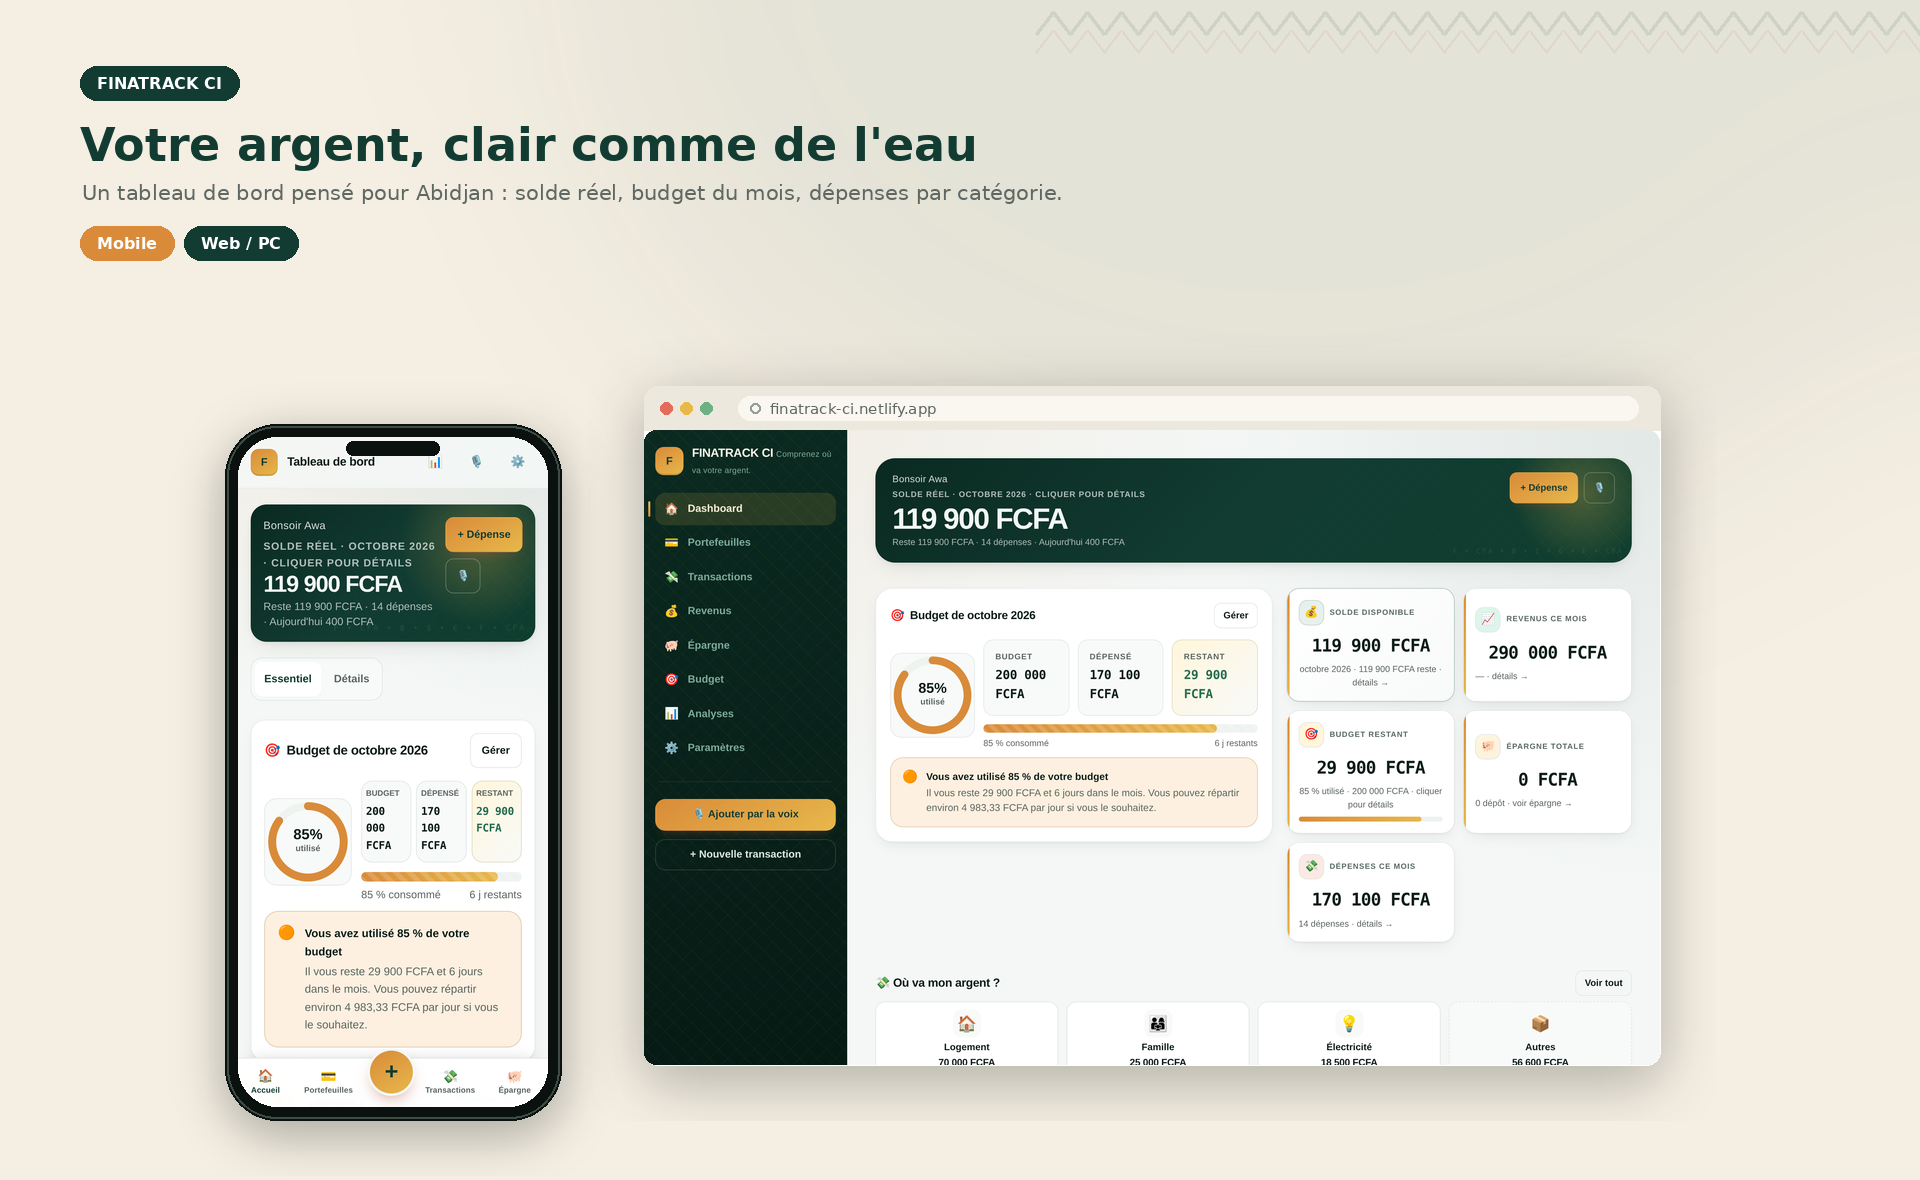
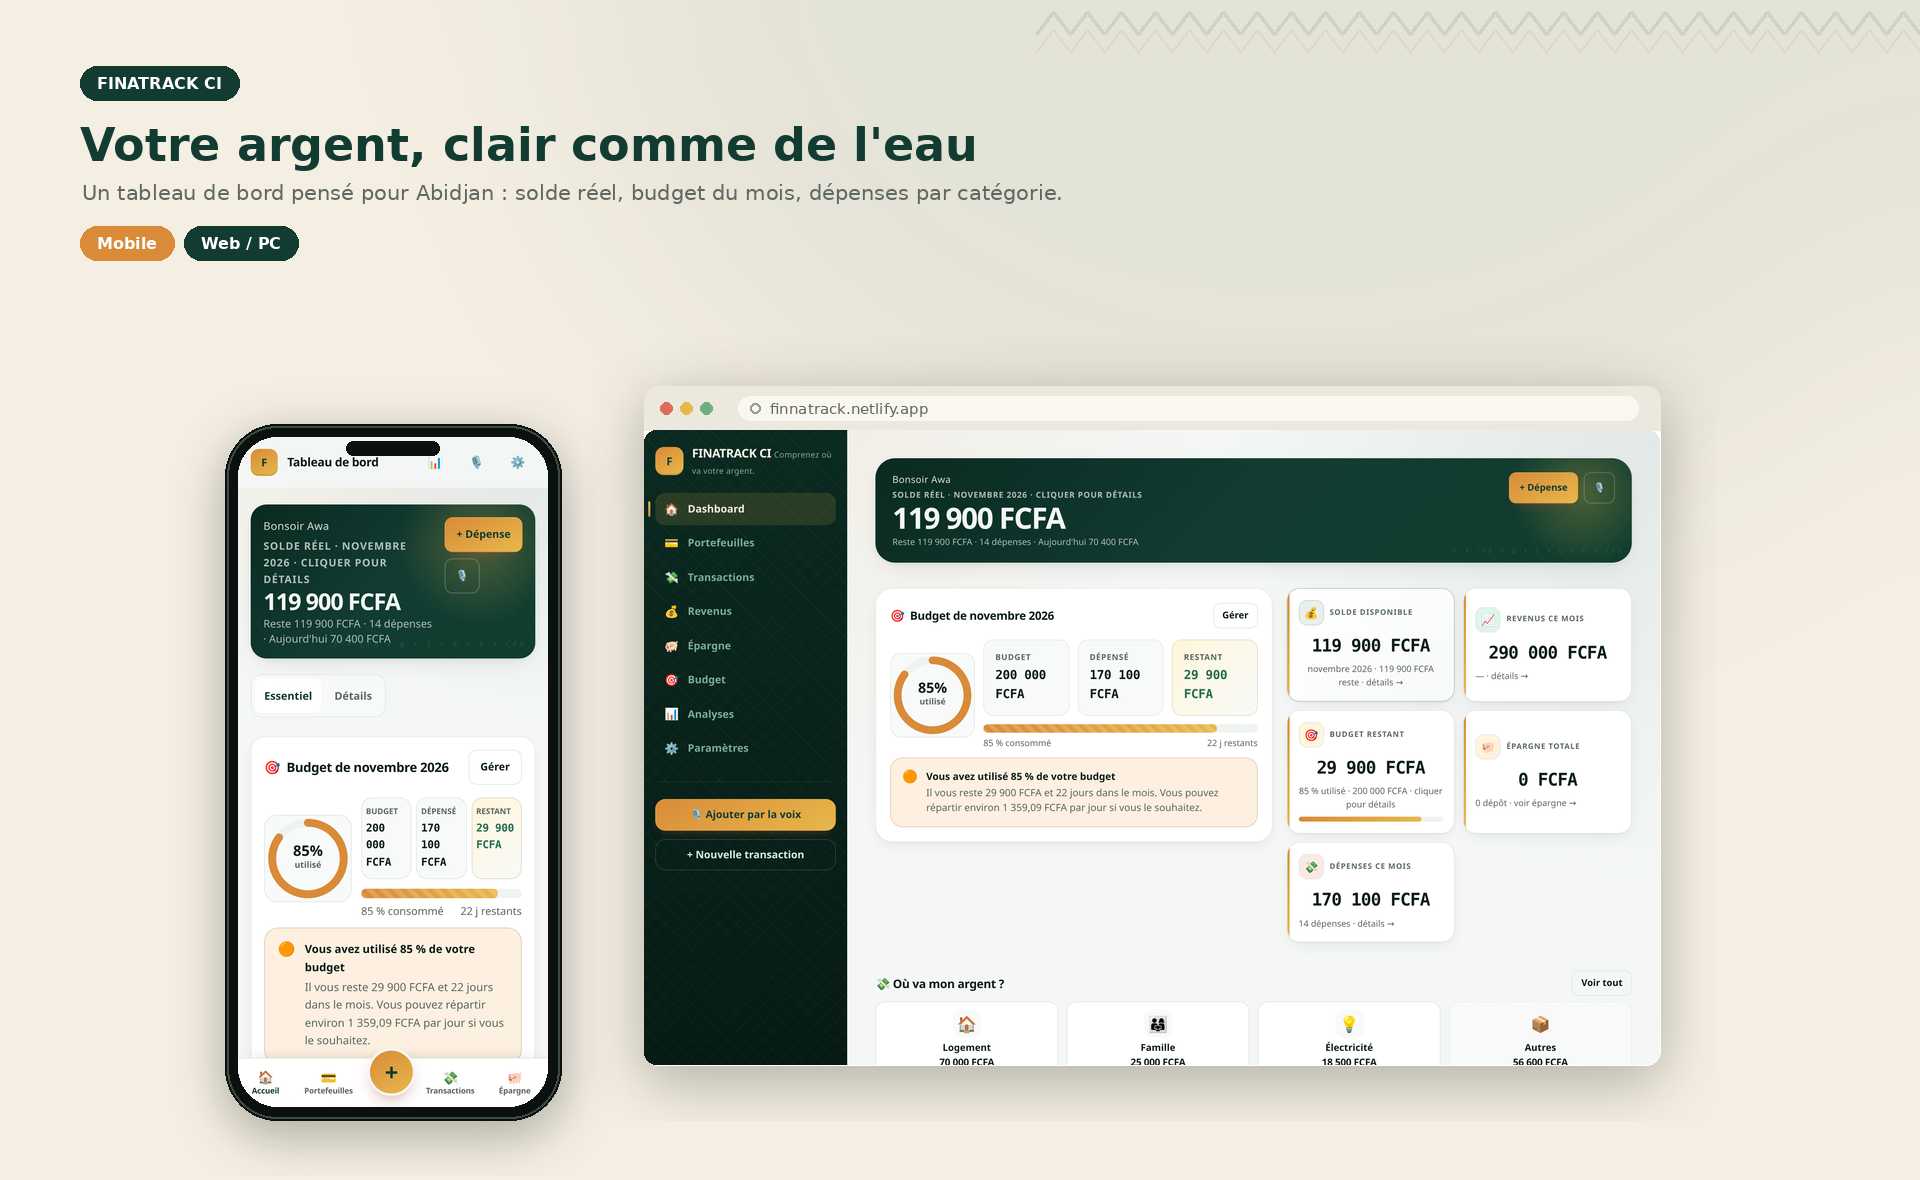
v3.4.1: libelles barre basse jamais coupes + page connexion sans mention donnees locales + mockups recaptures (emojis couleur, URL reelle, ecran connexion)

diff --git a/tools/mockups.js b/tools/mockups.js
@@ -35,6 +35,8 @@ const PAGES = [
     ["analyse", "/pages/analysis.html", "Analyse"],
     ["portefeuilles", "/pages/wallets.html", "Portefeuilles"],
     ["parametres", "/pages/settings.html", "Paramètres"],
+    /* `noAuth` : la page de connexion redirige si une session existe. */
+    ["connexion", "/pages/login.html", "Connexion", { noAuth: true }],
 ];
 
 const DESKTOP = { width: 1440, height: 900, deviceScaleFactor: 2 };
@@ -44,11 +46,15 @@ const MOBILE = {
 };
 
 /** Contourne l'authentification pour les captures. */
-async function newPage(browser, viewport) {
+async function newPage(browser, viewport, opts) {
+    const noAuth = !!(opts && opts.noAuth);
     const page = await browser.newPage();
     await page.setViewport(viewport);
-    await page.evaluateOnNewDocument(function () {
-        window.__isTest = true;
+    await page.evaluateOnNewDocument(function (noAuth) {
+        /* Sur login.html, __isTest doit rester faux : sinon la page nous
+           considère déjà connecté et renvoie vers le tableau de bord. */
+        window.__isTest = !noAuth;
+        window.__FT_NO_AUTH = noAuth;
         /* Session factice en local : évite la redirection vers login.html
            et coupe le client Supabase (aucune requête réseau pendant la capture). */
         try {
@@ -59,14 +65,16 @@ async function newPage(browser, viewport) {
                     Object.defineProperty(window, "FT_CONFIG", { value: {}, writable: true, configurable: true });
                 },
             });
-            localStorage.setItem("finatrack_session", JSON.stringify({
-                userId: "capture", email: "awa@finatrack.ci", name: "Awa", provider: "local",
-            }));
+            if (!window.__FT_NO_AUTH) {
+                localStorage.setItem("finatrack_session", JSON.stringify({
+                    userId: "capture", email: "awa@finatrack.ci", name: "Awa", provider: "local",
+                }));
+            }
             localStorage.setItem("finatrack_settings", JSON.stringify({
                 demoLoaded: true, userName: "Awa", currency: "FCFA", showLocation: false,
             }));
         } catch (e) {}
-    });
+    }, noAuth);
     /* Coupe tout appel réseau externe : la capture reste locale et rapide. */
     await page.setRequestInterception(true);
     page.on("request", function (req) {
@@ -107,8 +115,16 @@ async function prepare(page) {
 
 async function capture(browser, viewport, suffix) {
     const made = [];
-    for (const [name, url, title] of PAGES) {
-        const page = await newPage(browser, viewport);
+    for (const [name, url, title, opts] of PAGES) {
+        const page = await newPage(browser, viewport, opts);
+        if (opts && opts.noAuth) {
+            /* Le stockage est partagé entre les pages du même contexte : la
+               session posée pour le tableau de bord ferait rediriger login.html.
+               On charge l'origine une fois, on vide, puis on ouvre la page. */
+            await page.goto(BASE + "/index.html", { waitUntil: "domcontentloaded", timeout: 30000 })
+                .catch(function () {});
+            await page.evaluate(function () { try { localStorage.clear(); } catch (e) {} });
+        }
         try {
             await page.goto(BASE + url, { waitUntil: "domcontentloaded", timeout: 30000 });
         } catch (e) {

diff --git a/css/style.css b/css/style.css
@@ -398,6 +398,15 @@ button, input, select, textarea { font: inherit; color: inherit; }
     background: none; border: 0; cursor: pointer; -webkit-tap-highlight-color: transparent;
 }
 .bottom-nav .bn-item:hover { text-decoration: none; color: var(--text); }
+/* Les libellés restent sur une seule ligne, entiers : « Transactions » se
+   coupait en « Trans-actions » sur les écrans de 360–390 px. On gagne la
+   place nécessaire en resserrant légèrement la police, jamais en tronquant. */
+.bottom-nav .bn-item > span:not(.bn-ico) {
+    white-space: nowrap; hyphens: none; -webkit-hyphens: none;
+}
+@media (max-width: 420px) {
+    .bottom-nav .bn-item { font-size: 10.5px; letter-spacing: -0.02em; }
+}
 .bottom-nav .bn-ico { font-size: 1.15rem; line-height: 1; filter: saturate(0.9); }
 .bottom-nav .bn-item[aria-current="page"] { color: var(--primary); }
 [data-theme="dark"] .bottom-nav .bn-item[aria-current="page"] { color: var(--primary-light); }

diff --git a/sw.js b/sw.js
@@ -12,7 +12,7 @@
      • aucune requête vers un autre domaine n'est interceptée.
    ========================================================================== */
 
-const VERSION = "finatrack-v3.4.0";   /* v3.4.0 : fix debordement stats budget mobile + mockups */
+const VERSION = "finatrack-v3.4.1";   /* v3.4.1 : libelles barre basse non coupes + page connexion sans mention locale */
 const CACHE_NAME = VERSION + "-static";
 
 /* Chemins relatifs : le service worker fonctionne aussi dans un sous-dossier

diff --git a/pages/login.html b/pages/login.html
@@ -82,7 +82,7 @@
     <div class="login-hero">
       <div class="brand-mark" aria-hidden="true">F</div>
       <h1 id="loginTitle">FinaTrack CI</h1>
-      <p>Connectez-vous pour accéder à votre suivi financier. Données locales, sécurisées dans ce navigateur.</p>
+      <p>Connectez-vous pour retrouver votre suivi financier, synchronisé et sécurisé.</p>
     </div>
     <div class="login-body">
       <div class="login-tabs" role="tablist" aria-label="Mode de connexion">

diff --git a/tools/make-mockups.py b/tools/make-mockups.py
@@ -115,7 +115,7 @@ def browser(screen_path, target_w=1000, chrome_h=44, radius=14, pad=56):
     ax0, ax1 = pad + 94, pad + target_w - 22
     d.rounded_rectangle((ax0, cy - 12, ax1, cy + 12), radius=12, fill=(250, 247, 240))
     d.ellipse((ax0 + 12, cy - 5, ax0 + 22, cy + 5), outline=(150, 158, 152), width=2)
-    d.text((ax0 + 32, cy - 8), "finatrack-ci.netlify.app", font=font(15, False), fill=MUTED)
+    d.text((ax0 + 32, cy - 8), "finnatrack.netlify.app", font=font(15, False), fill=MUTED)
 
     mask = Image.new("L", screen.size, 0)
     ImageDraw.Draw(mask).rounded_rectangle((0, 0, screen.width - 1, screen.height - 1),
@@ -322,6 +322,10 @@ def main():
     hero("dashboard", "Votre argent,\nclair comme de l'eau",
          "Solde réel, budget du mois et dépenses classées —\npensé pour le quotidien à Abidjan.",
          OUT / "09-banniere.png")
+
+    duo("connexion", "Se connecter en deux gestes",
+        "Compte sécurisé par Supabase : e-mail ou lien magique, aucune donnée stockée en local.",
+        OUT / "11-connexion-mobile-et-web.png")
 
     trio_mobile([
         ("dashboard", "Accueil"),

diff --git a/mockups/README.md b/mockups/README.md
@@ -18,6 +18,7 @@ pas des maquettes inventées : chaque écran est rendu dans Chrome puis habillé
 | `08-planche-web.png` | 1860×~1600 | 4 écrans web en grille |
 | `09-banniere.png` | 1920×1080 | Bannière 16:9 — réseaux sociaux, en-tête de page |
 | `10-mobile-trio.png` | 1700×~970 | 3 téléphones côte à côte — accueil, budget, épargne |
+| `11-connexion-mobile-et-web.png` | 1920×1180 | Duo mobile + web — écran de connexion |
 
 `bruts/` contient les captures non habillées (16 fichiers, mobile 390×844 et desktop
 1440×900). Ce dossier est ignoré par git : il se régénère.
@@ -47,9 +48,18 @@ jamais la base Supabase.
 - Motif bogolan en frise haute uniquement, à faible opacité — jamais sur le contenu
 - Le nom affiché est « Awa », jeu de données de démonstration
 
-## Note
+## Conformité
 
-Les emojis de l'interface (🏠💸💰…) apparaissent en glyphes monochromes dans les
-captures : le serveur de capture n'a pas la police Noto Color Emoji. Sur un
-vrai appareil ils sont en couleur. Ajouter `fonts-noto-color-emoji` sur la
-machine de capture règle le rendu.
+Les captures montrent l'application réelle : URL `finnatrack.netlify.app`,
+police Noto Sans, emojis en couleur, jeu de démonstration « Awa », montants en FCFA.
+
+Prérequis de la machine de capture pour un rendu fidèle :
+
+```bash
+sudo apt-get install -y fonts-noto-core fonts-noto-color-emoji
+libnspr4 libnss3 libatk1.0-0 libatk-bridge2.0-0 libcups2 libdrm2 libxkbcommon0
+libxcomposite1 libxdamage1 libxfixes3 libxrandr2 libgbm1 libasound2t64 libpango-1.0-0 libcairo2
+```
+
+Sans `fonts-noto-core`, le texte tombe sur une police à chasse fixe et les mots
+se retrouvent espacés ; sans `fonts-noto-color-emoji`, les emojis sortent en noir.
